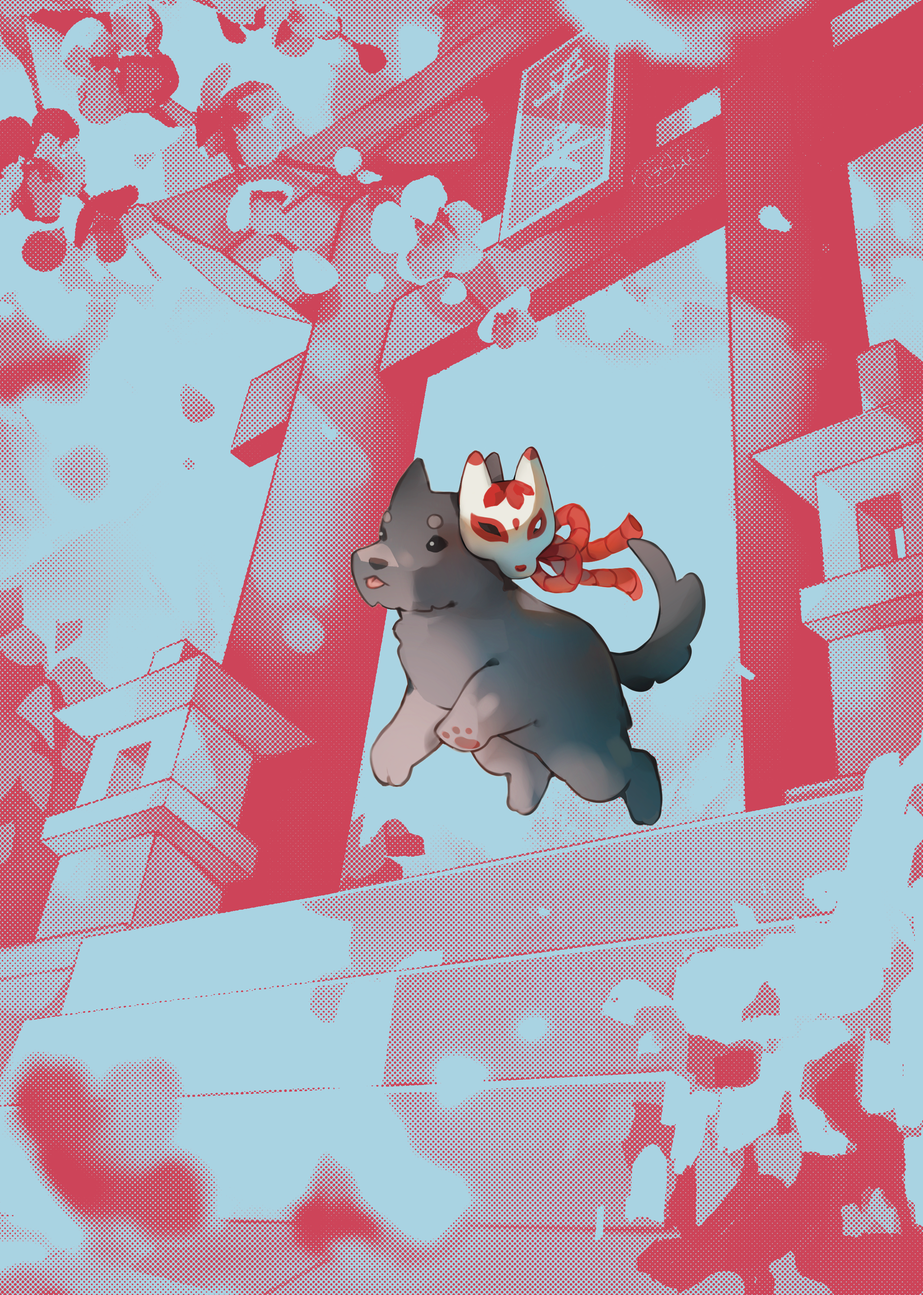
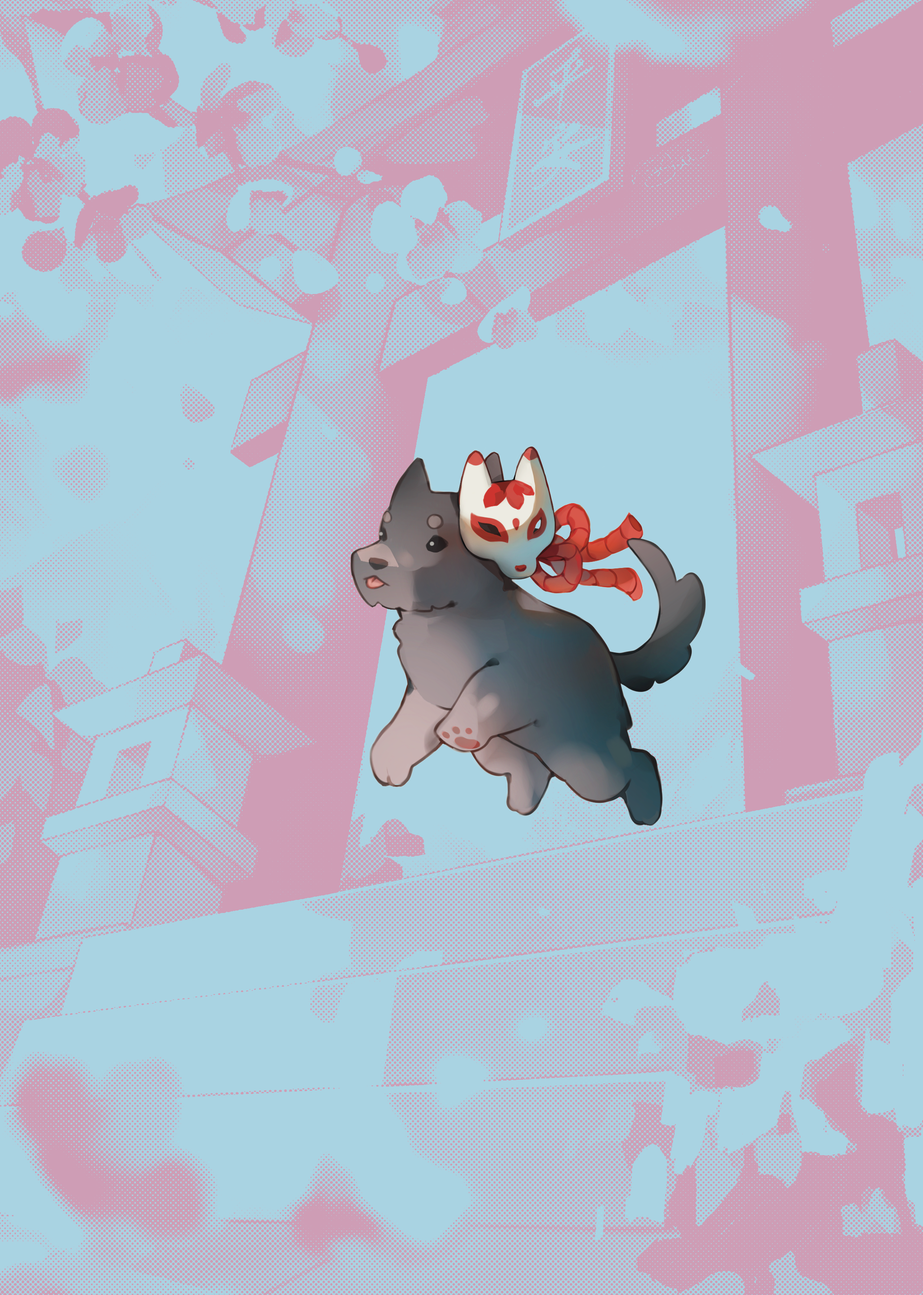
style: change to light mode

diff --git a/components/section/hero-section.tsx b/components/section/hero-section.tsx
@@ -6,19 +6,19 @@ export default function HeroSection() {
       {/* Title Block */}
       <div className="flex flex-col">
         <div className="flex items-center gap-3">
-          <div className="bg-red-600 text-black font-mono font-semibold text-xs px-2 py-0.5 rounded-sm">
+          <div className="bg-primary text-white font-mono font-semibold text-xs px-2 py-0.5 rounded-sm">
             EST. 2019
           </div>
-          <div className="h-px w-24 bg-white/50" />
+          <div className="h-px w-24 bg-slate-300" />
         </div>
 
         <div className="flex items-baseline gap-4 mt-2">
-          <h1 className="font-sans font-bold text-5xl sm:text-6xl tracking-tighter">
-            SCOTTY<span className="text-red-500">CON</span>
+          <h1 className="font-sans font-bold text-5xl sm:text-6xl tracking-tighter text-slate-900">
+            SCOTTY<span className="text-primary">CON</span>
           </h1>
         </div>
 
-        <h2 className="font-sans font-black text-8xl sm:text-[9rem] leading-none text-white opacity-75">
+        <h2 className="font-sans font-black text-8xl sm:text-[9rem] leading-none text-secondary-dark opacity-75 mix-blend-multiply">
           2026
         </h2>
       </div>
@@ -26,31 +26,31 @@ export default function HeroSection() {
       {/* Info Grid */}
       <div className="mt-12 grid grid-cols-1 md:grid-cols-12 gap-6">
         {/* Notices Panel */}
-        <div className="md:col-span-7 bg-black/40 backdrop-blur-sm border border-white/20 p-4 rounded-lg relative overflow-hidden">
+        <div className="md:col-span-7 bg-white/50 backdrop-blur-md border border-primary/30 p-4 rounded-lg relative overflow-hidden shadow-sm">
           {/* Decorative Corner */}
-          <div className="absolute top-0 right-0 w-4 h-4 border-t-2 border-r-2 border-red-500 rounded-tr-lg" />
+          <div className="absolute top-0 right-0 w-4 h-4 border-t-2 border-r-2 border-primary rounded-tr-lg" />
 
-          <div className="flex items-center justify-between mb-4 border-b border-white/10 pb-2">
-            <h3 className="font-mono text-sm uppercase tracking-widest text-white/70">
+          <div className="flex items-center justify-between mb-4 border-b border-primary/20 pb-2">
+            <h3 className="font-mono text-sm uppercase tracking-widest text-slate-700">
               {"// Latest_Updates"}
             </h3>
             <div className="flex gap-1">
-              <div className="w-2 h-2 rounded-full bg-red-500" />
-              <div className="w-2 h-2 rounded-full bg-white/20" />
+              <div className="w-2 h-2 rounded-full bg-primary" />
+              <div className="w-2 h-2 rounded-full bg-secondary-dark" />
             </div>
           </div>
 
           <div className="h-40 overflow-y-auto pr-2 space-y-4">
             {notices.map((notice, index) => (
               <div key={index} className="flex gap-3 items-start group">
-                <span className="font-mono text-xs text-red-500 pt-1">
+                <span className="font-mono text-xs text-primary pt-1">
                   0{index + 1}
                 </span>
                 <div>
-                  <p className="font-bold text-sm text-white group-hover:text-red-400 transition-colors">
+                  <p className="font-bold text-sm text-slate-700 group-hover:text-primary transition-colors">
                     {notice.title}
                   </p>
-                  <p className="font-mono text-xs text-white/60 leading-relaxed">
+                  <p className="font-mono text-xs text-slate-600 leading-relaxed">
                     {notice.message}
                   </p>
                 </div>
@@ -61,20 +61,32 @@ export default function HeroSection() {
 
         {/* Location/Date Panel */}
         <div className="md:col-span-5 flex flex-col justify-start gap-4 text-right">
-          <div className="border-r-2 border-red-500 pr-4 py-1">
-            <p className="font-mono text-xs text-white/50 mb-1">LOCATION</p>
-            <p className="font-mono font-semibold text-lg leading-tight">
-              Cohon University Center
+          <div className="border-r-2 border-secondary-dark pr-4 py-1">
+            <p className="font-mono text-xs text-secondary-dark mb-1">
+              LOCATION
+            </p>
+            <p className="font-mono font-semibold text-lg leading-tight text-slate-700">
+              Jared L. Cohon University Center
               <br />
-              <span className="text-sm font-normal text-white/80">
-                Carnegie Mellon University
+              <span className="text-sm font-normal text-slate-600">
+                5032 Forbes Avenue
+                <br />
+                Pittsburgh, PA 15213
               </span>
             </p>
           </div>
 
-          <div className="border-r-2 border-white/50 pr-4 py-1">
-            <p className="font-mono text-xs text-white/50 mb-1">DATE</p>
-            <p className="font-mono font-semibold text-lg">March 28, 2026</p>
+          <div className="border-r-2 border-secondary-dark pr-4 py-1">
+            <p className="font-mono text-xs text-secondary-dark mb-1">
+              DATE/TIME
+            </p>
+            <p className="font-mono font-semibold text-lg text-slate-700">
+              March 28, 2026
+              <br />
+              <span className="text-sm font-normal text-slate-600">
+                11:00 AM - 09:00 PM
+              </span>
+            </p>
           </div>
         </div>
       </div>

diff --git a/components/footer.tsx b/components/footer.tsx
@@ -1,4 +1,4 @@
-"use client"
+"use client";
 
 import { usePathname } from "next/navigation";
 import Link from "next/link";
@@ -6,9 +6,9 @@ import {
   BsHouseFill,
   BsMapFill,
   BsTicketPerforatedFill,
-  BsBrush,
   BsCalendarEventFill,
 } from "react-icons/bs";
+import { AiFillShopping } from "react-icons/ai";
 
 export default function Footer() {
   const pathname = usePathname();
@@ -16,14 +16,18 @@ export default function Footer() {
   const navItems = [
     { name: "HOME", href: "/", icon: <BsHouseFill /> },
     { name: "EVENTS", href: "/events", icon: <BsCalendarEventFill /> },
-    { name: "ARTISTS", href: "/artists", icon: <BsBrush /> },
+    {
+      name: "ARTISTS",
+      href: "/artists",
+      icon: <AiFillShopping className="text-2xl" />,
+    },
     { name: "MAP", href: "/map", icon: <BsMapFill /> },
     { name: "RAFFLE", href: "/raffle", icon: <BsTicketPerforatedFill /> },
   ];
 
   return (
     <div className="fixed bottom-4 sm:bottom-6 left-0 w-full flex justify-center z-50 px-2">
-      <nav className="bg-[#0a0a0a]/90 backdrop-blur-md border border-white/20 rounded-2xl p-1.5 flex gap-1 shadow-2xl overflow-x-auto max-w-full">
+      <nav className="bg-white/80 backdrop-blur-xl border border-primary/20 rounded-2xl p-1.5 flex gap-1 shadow-[0_4px_20px_rgba(243,154,202,0.2)] overflow-x-auto max-w-full">
         {navItems.map((item) => {
           const isActive = pathname === item.href;
 
@@ -35,8 +39,8 @@ export default function Footer() {
                 flex items-center justify-center gap-2 px-4 py-3 rounded-xl transition-all duration-300
                 ${
                   isActive
-                    ? "bg-white text-black shadow-[0_0_15px_rgba(255,255,255,0.3)]"
-                    : "text-white/50 hover:text-white hover:bg-white/10"
+                    ? "bg-primary text-white shadow-md shadow-primary/30"
+                    : "text-slate-400 hover:text-primary hover:bg-primary-light/20"
                 }
               `}
             >

diff --git a/app/layout.tsx b/app/layout.tsx
@@ -27,7 +27,7 @@ export default function RootLayout({
   return (
     <html lang="en">
       <body
-        className={`${IBMPlexMono.variable} ${quicksand.variable} antialiased bg-black text-white selection:bg-red-500 selection:text-white`}
+        className={`${IBMPlexMono.variable} ${quicksand.variable} antialiased bg-white text-slate-800 selection:bg-primary selection:text-white`}
       >
         {/* Background Image Layer */}
         <div className="fixed top-0 left-0 w-full h-full -z-20">
@@ -35,7 +35,7 @@ export default function RootLayout({
             src="/images/background.png"
             alt="Background"
             fill
-            className="object-cover opacity-60"
+            className="object-cover "
             priority
           />
           <Image
@@ -44,14 +44,14 @@ export default function RootLayout({
             fill
             className="object-cover"
           />
-          <div className="absolute inset-0 bg-black/25" />
+          <div className="absolute inset-0 bg-black/10" />
         </div>
 
         {/* Dot Grid Overlay */}
         <div className="fixed top-0 left-0 w-full h-full pointer-events-none -z-10 bg-grid-pattern" />
 
-        {/* Gradient Fade Overlay */}
-        <div className="fixed top-0 left-0 w-full h-full bg-linear-to-b from-transparent via-transparent to-black -z-5 pointer-events-none" />
+        {/* Gradient Fade */}
+        <div className="fixed top-0 left-0 w-full h-full bg-linear-to-b from-transparent via-transparent to-secondary-light -z-5 pointer-events-none" />
 
         {children}
         <Footer />

diff --git a/app/globals.css b/app/globals.css
@@ -1,5 +1,15 @@
 @import "tailwindcss";
 
+@theme {
+  --color-primary: #f39aca;
+  --color-primary-light: #ffcbe7;
+  --color-primary-dark: #d74056;
+  --color-secondary: #a8e3ff;
+  --color-secondary-light: #d0edfb;
+  --color-secondary-dark: #1657bb;
+  --color-accent: #cbe673;
+}
+
 @theme inline {
   --font-sans: var(--font-quicksand);
   --font-mono: var(--font-ibm-plex-mono);
@@ -16,13 +26,13 @@
   border-radius: 3px;
 }
 ::-webkit-scrollbar-thumb:hover {
-  background: #ef4444;
+  background: var(--color-primary);
 }
 
 .bg-grid-pattern {
   background-image: radial-gradient(
-    rgba(255, 255, 255, 0.1) 1px,
-    transparent 1px
+    rgba(168, 227, 255, 0.1) 1.5px,
+    /* color-secondary with 10% opacity */ transparent 1.5px
   );
   background-size: 24px 24px;
   mask-image: linear-gradient(to bottom, black 60%, transparent 100%);
